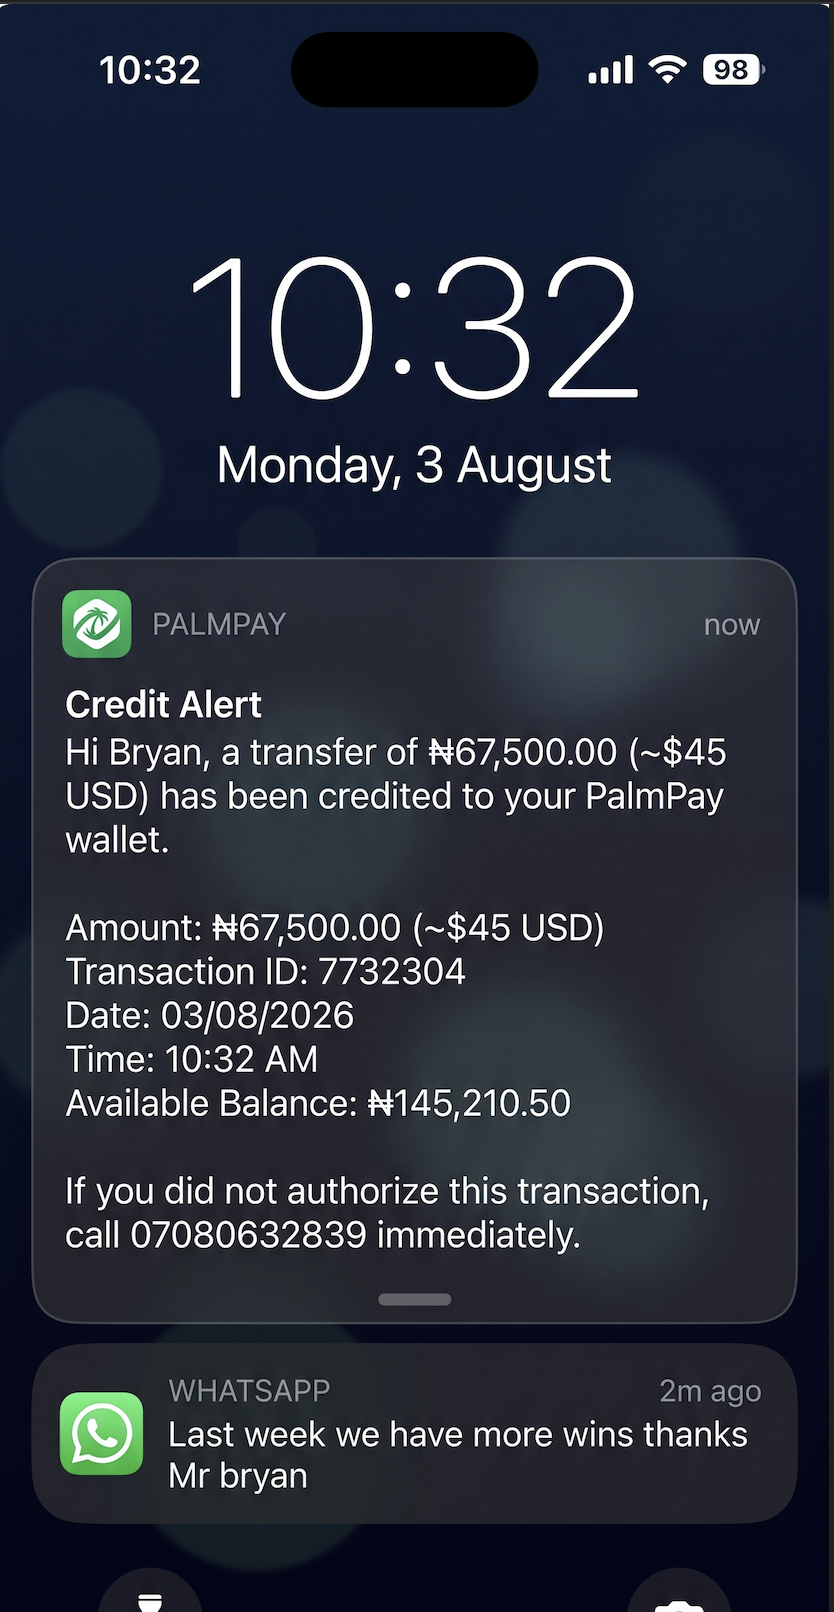
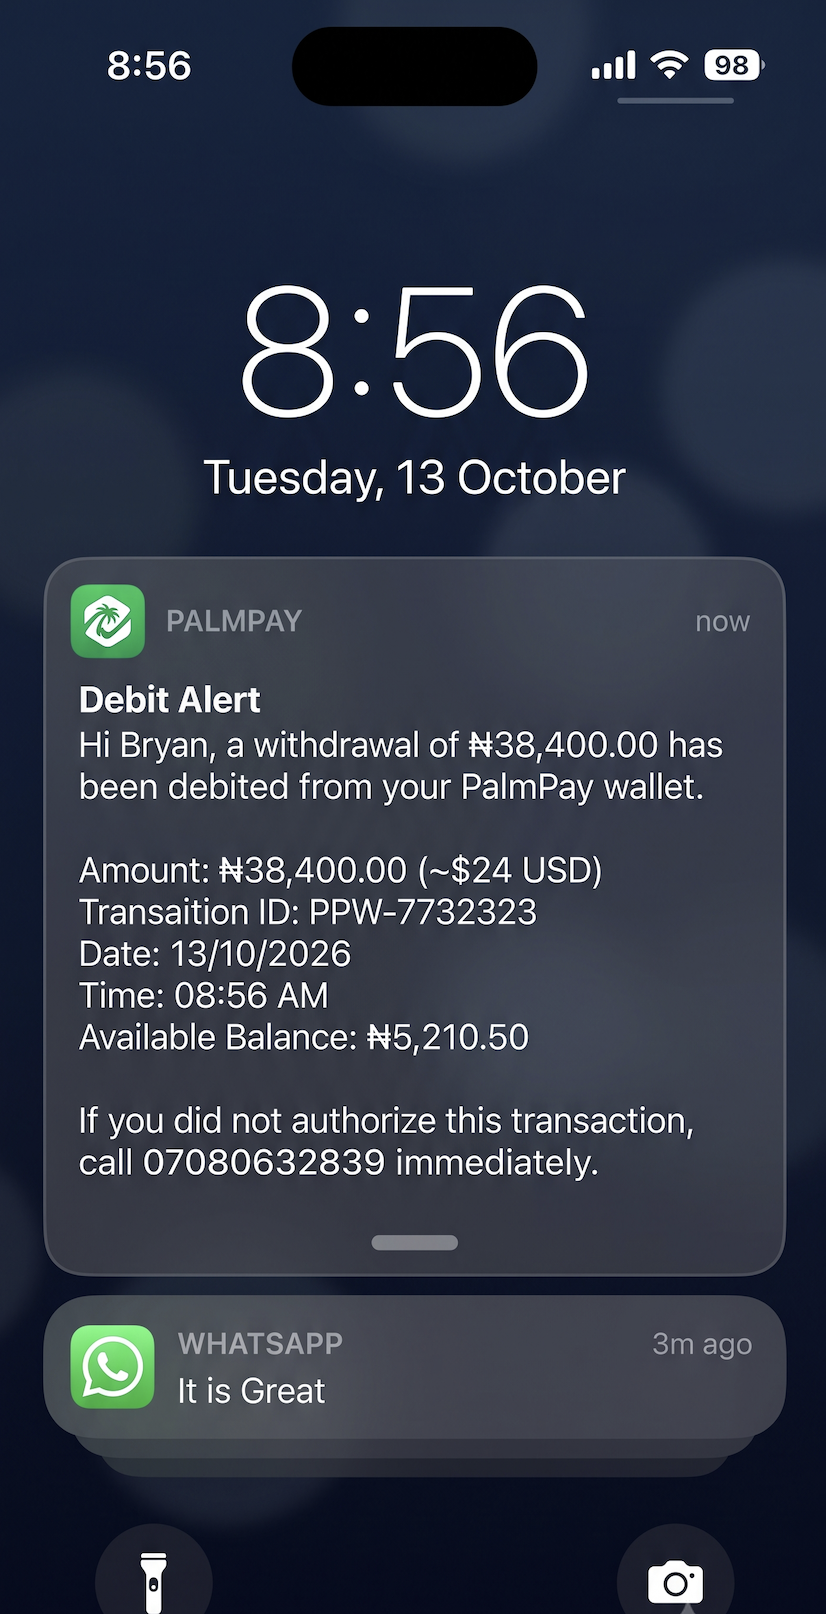
upadte

diff --git a/fortunobet/FortunoBetBot.py b/fortunobet/FortunoBetBot.py
@@ -65,34 +65,34 @@ posts =[
 # {"date": "2026-06-21", "time": "23:55", "content": "🎰 <b>500% Bonus — active tonight only! ❌</b>\n\n1WIN Casino. Fortune Tiger. Gates of Olympus. 💰\nGH₵50 → play with GH₵300 + 500 free spins. Chale.\n\nPromo code works now — not guaranteed tomorrow. ⚠\nThree payouts this week. GH₵450 + GH₵750 + GH₵1,200. No dulling. 💸\n\nPlace your bet before bonus expires. JOIN NOW. 🔥\n\nDeposit GH₵50 → play with GH₵300\n🔑 Code: <code>fortunobet</code>\n👉 <b>PLACE YOUR BET:</b> https://r1wexmo.life/betting?open=register&p=t02b", "images": ["bonus4.jpeg"]},
 
 
-    # {"date":"2026-08-03","time":"20:55","content":"✅ <b>BOOM! WE WON AGAIN — LIVE BET REPLAY RESULT! 🏆</b>\n\nReplay to our live video bet! Lyon dominated Wolfsburg 2-0 as predicted. 📊\n\n⚽ Wolfsburg 0 - 2 Lyon \n🔥 Bet: $100 @ 1.50 Odds → $150.00 Profit! \n💰 Total Balance: <b>$872.00</b> 💸\n\nWhy watch from the sidelines while we cash out daily? 🚀\n\n🔑 Code: <code>fortunobet</code>\n👉 <b>REGISTER & WIN TODAY:</b> https://r1wexmo.life/betting?open=register&p=t02b","images":["win1.png"]},
+    
+    {"date":"2026-08-10","time":"16:30","content":"🔥 <b>MONDAY BANKER: Low-Risk 1.20+ Odds Locked! 🎯</b>\n\nDeposit min UGX 2,000 / GH¢ 5 / ₦200 via MoMo or OPay & get 500% bonus instantly! ⚡\n\n🔑 Code: <code>fortunobet</code>\n👉 <b>CLAIM BONUS & BET NOW:</b> https://r1wexmo.life/betting?open=register&p=t02b","images":[]},
+    {"date":"2026-08-10","time":"23:55","content":"💸 <b>₦22,400.00 MONDAY PALMPAY CASHOUT PROOF! ✅</b>\n\nInstant payout processed! Bryan withdrew ₦22,400.00 (~$14 USD) straight to PalmPay. ID: PPW-7732322. 💚\n\nWhatsApp member says: <i>'Mr Bryan thanks for winning bets'</i> ⚡\n\n1⃣ Code: <code>fortunobet</code>\n2⃣ Deposit min UGX 2,000 / GH¢ 5 / ₦200\n3⃣ Instant 500% bonus + 10% monthly protection! 🛡\n\n🔑 Code: <code>fortunobet</code>\n👉 <b>REGISTER & CASH OUT NOW:</b> https://r1wexmo.life/betting?open=register&p=t02b","images":["with2.png"]},
 
+    {"date":"2026-08-11","time":"12:00","content":"🎰 <b>500% WELCOME BONUS ON SLOTS & AVIATOR! 🚀</b>\n\nTurn UGX 2,000 / GH¢ 5 / ₦200 into big daily wins! Instant MoMo payouts! 💸\n\n1⃣ Code: <code>fortunobet</code>\n2⃣ Deposit min UGX 2,000 / GH¢ 5 / ₦200\n3⃣ Get 500% bonus in 30 seconds! ⚡\n\n🔑 Code: <code>fortunobet</code>\n👉 <b>CLAIM 500% BONUS NOW:</b> https://r1wexmo.life/betting?open=register&p=t02b","images":["bonus2.jpeg"]},
+    {"date":"2026-08-11","time":"16:30","content":"","images":[]},
+    {"date":"2026-08-11","time":"23:55","content":"✅ <b>BOOM! LIVE BET HIT CLEAN — OVER 1.5 WIN! 🏆</b>\n\nMan City vs K-League Over 1.5 hit exact! $100 stake → $104 payout! Bet ID: 297062392. Balance: <b>$262.00</b>! 💸\n\n1⃣ Code: <code>fortunobet</code>\n2⃣ Deposit min UGX 2,000 / GH¢ 5 / ₦200\n3⃣ Get 500% bonus in 30s! ⚡\n\n🔑 Code: <code>fortunobet</code>\n👉 <b>REGISTER & WIN TODAY:</b> https://r1wexmo.life/betting?open=register&p=t02b","images":["win3.png"]},
 
-    {"date":"2026-08-04","time":"12:00","content":"🎰 <b>UNLOCK EGYPT'S TREASURES — 500% BONUS! 🏺</b>\n\nPlay Book of Dead on FortunoBet! Get an instant <b>500% welcome bonus</b> on your 1st deposit! 💰\n\nMin deposit: UGX 2,000 / GH¢ 5 / ₦200 via MTN MoMo, Telecel & OPay.\n\n1⃣ Register with Code: <code>fortunobet</code>\n2⃣ Deposit UGX 2,000 / GH¢ 5 / ₦200\n3⃣ Get 500% Bonus + 10% Monthly Cashback! 🛡\n\n🔑 Code: <code>fortunobet</code>\n👉 <b>PLAY BOOK OF DEAD NOW:</b> https://r1wexmo.life/betting?open=register&p=t02b","images":["bonus2.jpeg"]},
-    {"date":"2026-08-04","time":"16:30","content":"⚽ <b>CHAMPIONS LEAGUE BANKER PICK! 🎯</b>\n\nHigh-probability stats locked in! Backed by deep analytics with 85%+ win rate. 📊\n\n🔑 Code: <code>fortunobet</code>\n👉 <b>LOCK IN TODAY'S ODDS:</b> https://r1wexmo.life/betting?open=register&p=t02b","images":[]},
-    {"date":"2026-08-04","time":"21:00","content":"🏆 <b>$108.80 WINNER — TEAM FALCONS (1.32 ODDS)! 🎯</b>\n\nIEM Cologne Major locked in! $80 stake returned $108.80 profit. Account Balance: <b>$364.80</b>! 💸\n\nStop scrolling on the sidelines. Build your bankroll systematically! ⚡\n\n🔑 Code: <code>fortunobet</code>\n👉 <b>JOIN THE WINNERS:</b> https://r1wexmo.life/betting?open=register&p=t02b","images":["win3.jpeg"]},
+    {"date":"2026-08-12","time":"12:00","content":"⚡ <b>CONQUER OLYMPUS — 500% FIRST DEPOSIT BONUS! 🏛</b>\n\nUnleash Zeus multipliers on Gates of 1Win! Double your betting power instantly! 💥\n\n1⃣ Code: <code>fortunobet</code>\n2⃣ Deposit min UGX 2,000 / GH¢ 5 / ₦200\n3⃣ Get 500% bonus in 30s! ⚡\n\n🔑 Code: <code>fortunobet</code>\n👉 <b>CLAIM 500% BONUS:</b> https://r1wexmo.life/betting?open=register&p=t02b","images":["bonus4.jpeg"]},
+    {"date":"2026-08-12","time":"16:30","content":"⚽ <b>MID-WEEK BANKER: 88%+ WIN RATE LOCKED! 🎯</b>\n\nDon't sleep on today's picks! Deposit min UGX 2,000 / GH¢ 5 / ₦200 & double your cash! ⚡\n\n🔑 Code: <code>fortunobet</code>\n👉 <b>LOCK IN TODAY'S BANKER:</b> https://r1wexmo.life/betting?open=register&p=t02b","images":[]},
+    {"date":"2026-08-12","time":"23:55","content":"💸 <b>₦38,400.00 WEDNESDAY PALMPAY PAYOUT PROOF! ✅</b>\n\nCashout sent in 30 seconds! Bryan withdrew ₦38,400.00 (~$24 USD) to PalmPay. ID: PPW-7732323. Balance: ₦5,210.50! 💚\n\nWhatsApp member feedback: <i>'It is Great'</i> 🔥\n\n1⃣ Code: <code>fortunobet</code>\n2⃣ Deposit min UGX 2,000 / GH¢ 5 / ₦200\n3⃣ Instant 500% bonus credited! ⚡\n\n🔑 Code: <code>fortunobet</code>\n👉 <b>COLLECT WEDNESDAY CASHOUTS:</b> https://r1wexmo.life/betting?open=register&p=t02b","images":["with1.png"]},
 
-    {"date":"2026-08-05","time":"12:00","content":"⚡ <b>CONQUER OLYMPUS — 500% FIRST DEPOSIT BONUS! 🏛</b>\n\nUnleash Zeus multipliers on Gates of 1Win! Double your betting power instantly! 💥\n\n1⃣ Register with Code: <code>fortunobet</code>\n2⃣ Deposit min UGX 2,000 / GH¢ 5 / ₦200\n3⃣ Get 500% Bonus in under 30 seconds!\n\n🔑 Code: <code>fortunobet</code>\n👉 <b>CLAIM 500% OLYMPUS BONUS:</b> https://r1wexmo.life/betting?open=register&p=t02b","images":["bonus4.jpeg"]},
-    {"date":"2026-08-05","time":"13:18","content":"⚡ <b>CONQUER OLYMPUS — 500% FIRST DEPOSIT BONUS! 🏛</b>\n\nUnleash Zeus multipliers on Gates of 1Win! Double your betting power instantly! 💥\n\n1⃣ Register with Code: <code>fortunobet</code>\n2⃣ Deposit min UGX 2,000 / GH¢ 5 / ₦200\n3⃣ Get 500% Bonus in under 30 seconds!\n\n🔑 Code: <code>fortunobet</code>\n👉 <b>CLAIM 500% OLYMPUS BONUS:</b> https://r1wexmo.life/betting?open=register&p=t02b","images":["bonus4.jpeg"]},
-    {"date":"2026-08-05","time":"16:30","content":"","images":[]},
-    {"date":"2026-08-05","time":"21:00","content":"💸 <b>₦82,500.00 WEDNESDAY PALMPAY PAYOUT PROOF! ✅</b>\n\nMid-week cashout completed! Bryan withdrew ₦82,500.00 (~$55 USD) straight to PalmPay. ID: 7732305. Available Balance: ₦160,210.50! 💚\n\nWhatsApp member asked: <i>'When will be next analyses?'</i> — We keep winning together! ⚡\n\n🔑 Code: <code>fortunobet</code>\n👉 <b>COLLECT WEDNESDAY WINS:</b> https://r1wexmo.life/betting?open=register&p=t02b","images":["with2.png"]},
+    {"date":"2026-08-13","time":"12:00","content":"🏎 <b>FEEL THE SPEED — +600% WELCOME BONUS! 🏁</b>\n\nFastest payouts in Africa! Get a massive <b>+600% bonus</b> on your 1st deposit! ⚡\n\nMin deposit: UGX 2,000 / GH¢ 5 / ₦200 via MoMo, OPay & PalmPay.\n\n1⃣ Code: <code>fortunobet</code>\n2⃣ Deposit UGX 2,000 / GH¢ 5 / ₦200\n3⃣ Instant +600% bonus credited!\n\n🔑 Code: <code>fortunobet</code>\n👉 <b>CLAIM +600% SPEED BONUS:</b> https://r1wexmo.life/betting?open=register&p=t02b","images":["bonus5.jpeg"]},
+    {"date":"2026-08-13","time":"16:30","content":"💡 <b>STOP CHASING LOSSES — STICK TO HIGH ODDS! 📈</b>\n\nDeposit min UGX 2,000 / GH¢ 5 / ₦200 via MoMo or OPay to claim instant 500% bonus! ⚡\n\n🔑 Code: <code>fortunobet</code>\n👉 <b>DEPOSIT & START WINNING:</b> https://r1wexmo.life/betting?open=register&p=t02b","images":[]},
+    {"date":"2026-08-13","time":"23:55","content":"✅ <b>BOOM! BODØ/GLIMT X2 HIT CLEAN — LIVE REPLAY WIN! 🏆</b>\n\nDouble Chance X2 hit @ 1.14 Odds! $100 stake → $114 payout! Bet ID: 298340586. Balance: <b>$243.00</b>! 📊\n\n1⃣ Code: <code>fortunobet</code>\n2⃣ Deposit min UGX 2,000 / GH¢ 5 / ₦200\n3⃣ Get 500% bonus in 30s! ⚡\n\n🔑 Code: <code>fortunobet</code>\n👉 <b>REGISTER & WIN TODAY:</b> https://r1wexmo.life/betting?open=register&p=t02b","images":["win1.png"]},
 
-    {"date":"2026-08-06","time":"12:00","content":"🏎 <b>FEEL THE SPEED — +600% WELCOME BONUS! 🏁</b>\n\nFormula 1 speed on instant payouts! Get a massive <b>+600% bonus</b> on your first deposit! ⚡\n\nMin deposit: UGX 2,000 / GH¢ 5 / ₦200 via MoMo, OPay & PalmPay.\n\n1⃣ Tap link & register with Code: <code>fortunobet</code>\n2⃣ Deposit UGX 2,000 / GH¢ 5 / ₦200\n3⃣ Instant +600% bonus credited!\n\n🔑 Code: <code>fortunobet</code>\n👉 <b>CLAIM +600% SPEED BONUS:</b> https://r1wexmo.life/betting?open=register&p=t02b","images":["bonus5.jpeg"]},
-    # {"date":"2026-08-06","time":"16:30","content":"💡 <b>SMART BETTING RULE #1:</b>\n\nNever chase losses emotionally! Stick to 1.30–1.95 odds with backed analytics. 📈\n\n🔑 Code: <code>fortunobet</code>\n👉 <b>LOCK IN THURSDAY ODDS:</b> https://r1wexmo.life/betting?open=register&p=t02b","images":[]},
-    {"date":"2026-08-06","time":"22:08","content":"✅ <b>BOOM! MAN CITY WIN HIT CLEAN! 🏆</b>\n\nMan City 2-0 as analyzed! Bet $100 @ 1.31 → $131 Profit! Balance: <b>$918.20</b> 💸\n\n1⃣ Code: <code>fortunobet</code>\n2⃣ Deposit min UGX 2,000 / GH¢ 5 / ₦200\n3⃣ Get 500% bonus in 30s! ⚡\n\n👉 <b>REGISTER & WIN:</b> https://r1wexmo.life/betting?open=register&p=t02b","images":[]},
-    {"date":"2026-08-07","time":"12:00","content":"⚽ <b>$156.00 WINNER — SWEDEN VS TUNISIA (1.95 ODDS)! 🎯</b>\n\nWorld Cup prediction hit clean! $80 stake returned $156.00 cash profit. Balance: <b>$450.80</b>! 💸\n\nZero guesswork. Back real data and cash out instantly! ⚡\n\n🔑 Code: <code>fortunobet</code>\n👉 <b>REGISTER & WIN TODAY:</b> https://r1wexmo.life/betting?open=register&p=t02b","images":["win2.jpeg"]},
+    {"date":"2026-08-14","time":"12:00","content":"🏗 <b>TOWER RUSH — CLIMB & CLAIM 500% BONUS! 🚀</b>\n\nClimb the tower and double your money! Instant <b>500% welcome bonus</b> on your 1st deposit! 💸\n\nMin deposit: UGX 2,000 / GH¢ 5 / ₦200 via MTN MoMo, Telecel & OPay.\n\n1⃣ Code: <code>fortunobet</code>\n2⃣ Deposit min UGX 2,000 / GH¢ 5 / ₦200\n3⃣ Instant 500% bonus credited!\n\n🔑 Code: <code>fortunobet</code>\n👉 <b>PLAY TOWER RUSH NOW:</b> https://r1wexmo.life/betting?open=register&p=t02b","images":["bonus3.jpeg"]},
+    {"date":"2026-08-14","time":"16:30","content":"⚽ <b>FRIDAY NIGHT BANKER PICKS ARE LIVE! 🎯</b>\n\nWeekend matches start tonight! Deposit min UGX 2,000 / GH¢ 5 / ₦200 & claim 500% bonus in 30s! ⚡\n\n🔑 Code: <code>fortunobet</code>\n👉 <b>BET FRIDAY MATCHES NOW:</b> https://r1wexmo.life/betting?open=register&p=t02b","images":[]},
+    {"date":"2026-08-14","time":"23:55","content":"💸 <b>FRIDAY NIGHT CASHOUT PROOF — INSTANT PALMPAY! ✅</b>\n\nInstant withdrawals processed in under 60 seconds! Zero fees straight to PalmPay & MoMo! ⚡\n\n1⃣ Code: <code>fortunobet</code>\n2⃣ Deposit min UGX 2,000 / GH¢ 5 / ₦200\n3⃣ Instant 500% bonus credited! ⚡\n\n🔑 Code: <code>fortunobet</code>\n👉 <b>COLLECT FRIDAY CASHOUTS:</b> https://r1wexmo.life/betting?open=register&p=t02b","images":["with2.png"]},
 
-    # {"date":"2026-08-07","time":"12:00","content":"🏗 <b>TOWER RUSH — CLIMB & CLAIM 500% BONUS! 🚀</b>\n\nClimb to the top and claim your prize with an instant <b>500% bonus</b> on your 1st deposit! 💸\n\nMin deposit: UGX 2,000 / GH¢ 5 / ₦200 via MTN MoMo, Telecel, OPay & PalmPay.\n\n1⃣ Register with Code: <code>fortunobet</code>\n2⃣ Deposit min UGX 2,000 / GH¢ 5 / ₦200\n3⃣ Instant 500% bonus + no deposit fees!\n\n🔑 Code: <code>fortunobet</code>\n👉 <b>PLAY TOWER RUSH NOW:</b> https://r1wexmo.life/betting?open=register&p=t02b","images":["bonus3.jpeg"]},
-    {"date":"2026-08-07","time":"16:30","content":"⚽ <b>FRIDAY NIGHT BANKER ODDS! 🎯</b>\n\nWeekend matches starting tonight! Lock in 90%+ probability picks before kickoff. 📊\n\n🔑 Code: <code>fortunobet</code>\n👉 <b>BET FRIDAY ODDS NOW:</b> https://r1wexmo.life/betting?open=register&p=t02b","images":[]},
-    {"date":"2026-08-07","time":"21:00","content":"💸 <b>₦82,500.00 FRIDAY NIGHT CASHOUT PROOF! ✅</b>\n\nFriday night cash received! Bryan withdrew ₦82,500.00 (~$55 USD) straight to PalmPay. ID: 7732306. Balance: ₦160,210.50! 💚\n\nWhatsApp member says: <i>'Mr Bryan thanks for ideal week!!'</i> ⚡\n\n🔑 Code: <code>fortunobet</code>\n👉 <b>COLLECT FRIDAY CASHOUTS:</b> https://r1wexmo.life/betting?open=register&p=t02b","images":["with3.png"]},
+    {"date":"2026-08-15","time":"12:00","content":"🪙 <b>GET A 600% BONUS ON CRYPTO & MOMO DEPOSITS! 🚀</b>\n\nUnlock a massive <b>600% welcome bonus</b> on your 1st deposit! 💰\n\nFast payouts, zero deposit fees via MoMo, OPay & Crypto! ⚡\n\n1⃣ Code: <code>fortunobet</code>\n2⃣ Deposit via MoMo, OPay or Crypto\n3⃣ Instant 600% Bonus credited!\n\n🔑 Code: <code>fortunobet</code>\n👉 <b>CLAIM 600% BONUS:</b> https://r1wexmo.life/betting?open=register&p=t02b","images":["bonus1.jpeg"]},
+    {"date":"2026-08-15","time":"16:30","content":"","images":[]},
+    {"date":"2026-08-15","time":"23:55","content":"✅ <b>BOOM! SATURDAY NIGHT TENNIS WINNER! 🏆</b>\n\nLive bet prediction hit clean! Nuno Borges win @ 1.24 Odds! $100 stake → $124 payout! Bet ID: 296267963. Balance: <b>$286.00</b>! 💸\n\n1⃣ Code: <code>fortunobet</code>\n2⃣ Deposit min UGX 2,000 / GH¢ 5 / ₦200\n3⃣ Get 500% bonus in 30s! ⚡\n\n🔑 Code: <code>fortunobet</code>\n👉 <b>REGISTER & WIN:</b> https://r1wexmo.life/betting?open=register&p=t02b","images":["win2.png"]},
 
-    {"date":"2026-08-08","time":"12:00","content":"🪙 <b>GET A 600% BONUS ON CRYPTO DEPOSITS! 🚀</b>\n\nDeposit via Crypto or Mobile Money and unlock a massive <b>600% welcome bonus</b>! 💰\n\nFast payouts, high multipliers, zero fees on deposits & withdrawals! ⚡\n\n1⃣ Register with Code: <code>fortunobet</code>\n2⃣ Deposit via MoMo, OPay or Crypto\n3⃣ Instant 600% Bonus credited!\n\n🔑 Code: <code>fortunobet</code>\n👉 <b>CLAIM 600% CRYPTO BONUS:</b> https://r1wexmo.life/betting?open=register&p=t02b","images":["bonus1.jpeg"]},
-    {"date":"2026-08-08","time":"16:30","content":"","images":[]},
-
-    {"date":"2026-08-09","time":"12:00","content":"🏆 <b>WEEKLY CASHOUT RECAP: OVER ₦232,000 PAID OUT! 💚</b>\n\n100% verified proof! All withdrawals processed in under 60 seconds straight to PalmPay & MoMo! ⚡\n\n✅ ₦67,500.00 (~$45 USD) — <b>PAID</b> (ID: 7732304)\n✅ ₦82,500.00 (~$55 USD) — <b>PAID</b> (ID: 7732305)\n✅ ₦82,500.00 (~$55 USD) — <b>PAID</b> (ID: 7732306)\n\nZero withdrawal fees. Start your new week with cash in hand! 🎯\n\n🔑 Code: <code>fortunobet</code>\n👉 <b>REGISTER & CASH OUT NOW:</b> https://r1wexmo.life/betting?open=register&p=t02b","images":["with1.png","with2.png","with3.png"]},
-    {"date":"2026-08-09","time":"16:30","content":"🔥 <b>SUNDAY STRATEGY TIP:</b>\n\nLock in high-probability 1.30+ odds before Sunday evening matches kick off! 🏆\n\n🔑 Code: <code>fortunobet</code>\n👉 <b>LOCK IN SUNDAY ODDS:</b> https://r1wexmo.life/betting?open=register&p=t02b","images":[]},
-    {"date":"2026-08-09","time":"21:00","content":"💸 <b>SUNDAY NIGHT PALMPAY CASHOUT PROOF! ✅</b>\n\n₦67,500.00 (~$45 USD) paid out instantly to PalmPay / Mobile Money! Transaction ID: 7732304. 💚\n\nZero withdrawal fees, zero queues. Start your new week as a winner! ⚡\n\n🔑 Code: <code>fortunobet</code>\n👉 <b>REGISTER & CASH OUT NOW:</b> https://r1wexmo.life/betting?open=register&p=t02b","images":["with1.png"]}
-   ]
+    {"date":"2026-08-16","time":"12:00","content":"🏆 <b>WEEKLY CASHOUT RECAP: OVER ₦60,800 PAID OUT! 💚</b>\n\n100% verified proof! All withdrawals processed in under 60 seconds straight to PalmPay & MoMo! ⚡\n\n✅ ₦22,400.00 (~$14 USD) — <b>PAID</b> (ID: PPW-7732322)\n✅ ₦38,400.00 (~$24 USD) — <b>PAID</b> (ID: PPW-7732323)\n\nZero fees. Start your new week with cash! 🎯\n\n1⃣ Code: <code>fortunobet</code>\n2⃣ Deposit UGX 2,000 / GH¢ 5 / ₦200\n3⃣ Instant 500% bonus credited!\n\n🔑 Code: <code>fortunobet</code>\n👉 <b>REGISTER & CASH OUT NOW:</b> https://r1wexmo.life/betting?open=register&p=t02b","images":["with2.png","with1.png"]},
+    {"date":"2026-08-16","time":"16:30","content":"🔥 <b>SUNDAY HIGH-PROBABILITY ODDS READY! 🏆</b>\n\nLock in 1.15+ safe odds before evening kickoff! Deposit min UGX 2,000 / GH¢ 5 / ₦200 now! ⚡\n\n🔑 Code: <code>fortunobet</code>\n👉 <b>LOCK IN SUNDAY ODDS:</b> https://r1wexmo.life/betting?open=register&p=t02b","images":[]},
+    {"date":"2026-08-16","time":"23:55","content":"💸 <b>SUNDAY NIGHT CASHOUT PROOF — PALMPAY & MOMO! ✅</b>\n\nWithdrawals processed instantly! Zero fees, zero queues. 💚\n\n1⃣ Code: <code>fortunobet</code>\n2⃣ Deposit min UGX 2,000 / GH¢ 5 / ₦200\n3⃣ Get 500% bonus in 30s! ⚡\n\n🔑 Code: <code>fortunobet</code>\n👉 <b>REGISTER & CASH OUT NOW:</b> https://r1wexmo.life/betting?open=register&p=t02b","images":["with1.png"]}
+   ]   
 
 
 
